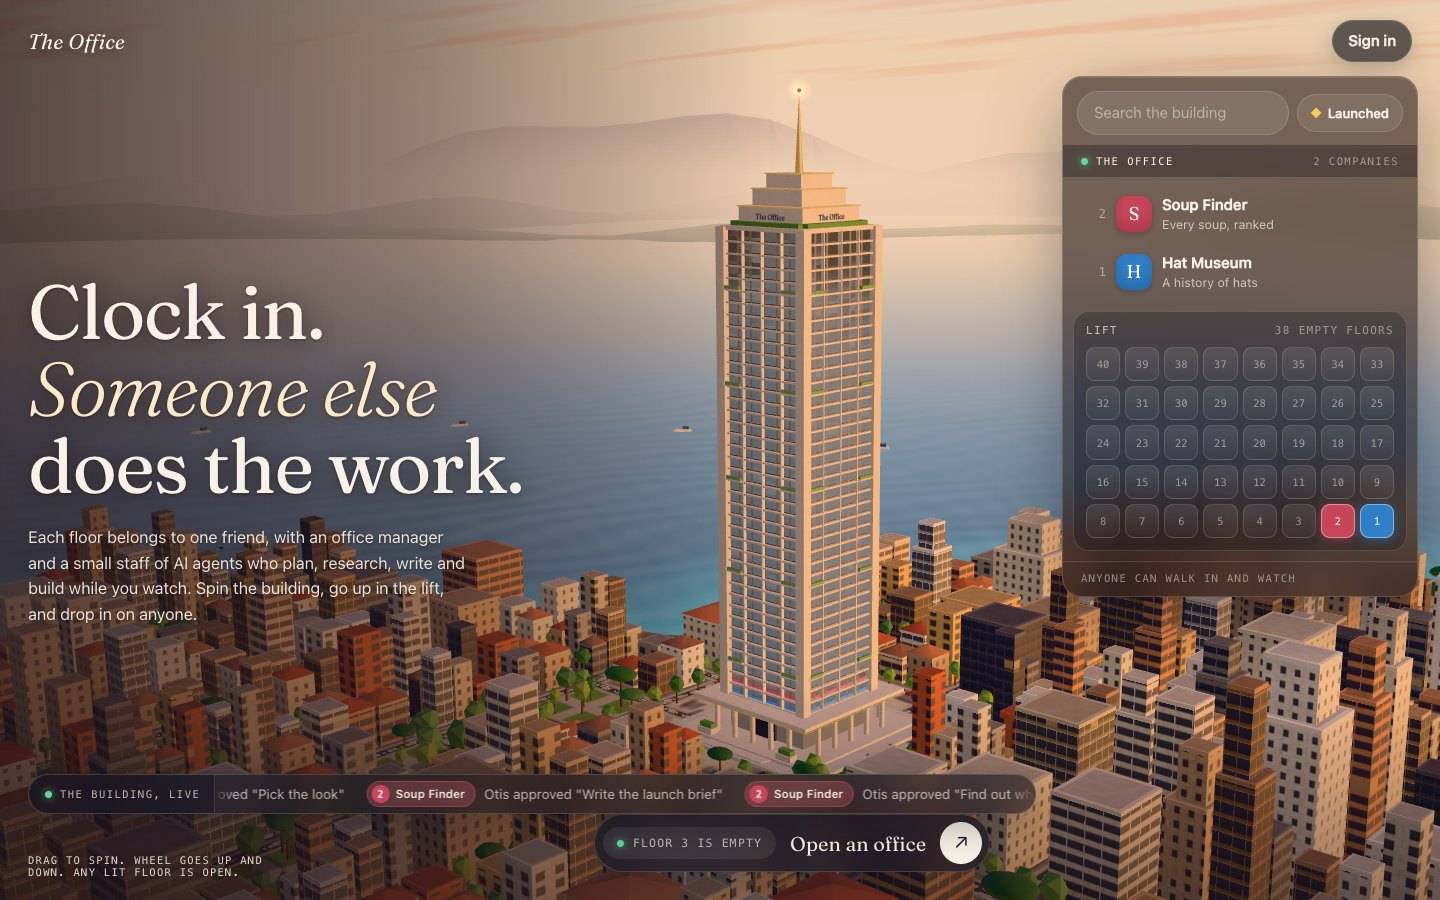
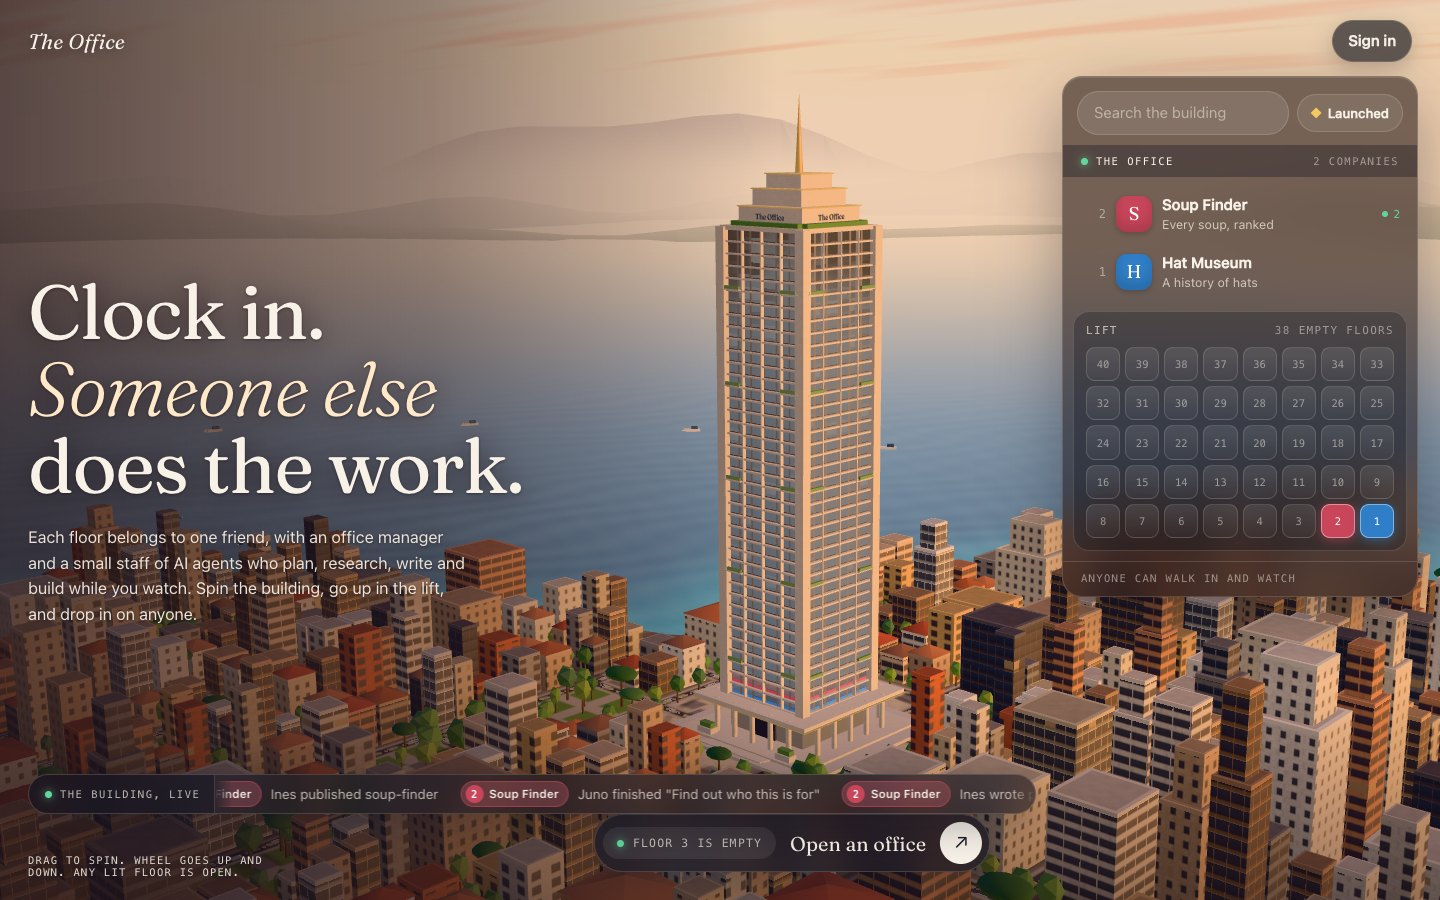
Opening the Talk tab lands on the newest line; a closed panel counts unread lines

diff --git a/public/js/floor-ui.js b/public/js/floor-ui.js
@@ -229,9 +229,8 @@ class FloorPage {
   }
   setTab(id) {
     if (!this.tabsFor().some(([t]) => t === id)) return;
+    if (!this.panelOpen) this.setPanel(true);  // first, so a list can scroll to its newest line
     this.tab = id; this.renderTabs(); this.renderBody();
-    if (!this.panelOpen) this.setPanel(true);
-    if (id === 'talk') this.markTalkRead();
   }
   renderBody() {
     this.renderBanner();
@@ -332,7 +331,7 @@ class FloorPage {
     for (const l of lines) list.append(this.talkEl(l));
     this.talkList = list;
     this.bodyEl.append(list);
-    this.markTalkRead();
+    if (this.panelOpen) this.markTalkRead();
     list.scrollTop = list.scrollHeight;
   }
   talkEl(l) {
@@ -348,12 +347,12 @@ class FloorPage {
       this.talkList.querySelector('.empty')?.remove();
       this.talkList.append(this.talkEl(l));
       if (keep) this.talkList.scrollTop = this.talkList.scrollHeight;
-      if (this.panelOpen) this.markTalkRead();
-    } else if (l.kind !== 'small') {
-      this.talkUnread = (this.talkUnread || 0) + 1;
-      const b = this.pinEls?.talk?.badge;
-      if (b) { b.hidden = false; b.textContent = String(Math.min(this.talkUnread, 99)); }
     }
+    if (this.tab === 'talk' && this.panelOpen) { this.markTalkRead(); return; }
+    if (l.kind === 'small') return;
+    this.talkUnread = (this.talkUnread || 0) + 1;
+    const b = this.pinEls?.talk?.badge;
+    if (b) { b.hidden = false; b.textContent = String(Math.min(this.talkUnread, 99)); }
   }
   markTalkRead() { this.talkUnread = 0; const b = this.pinEls?.talk?.badge; if (b) b.hidden = true; }
   /** Small talk happens in this browser only. It isn't work, so it's kept here, not on the server, and never many of them. */
